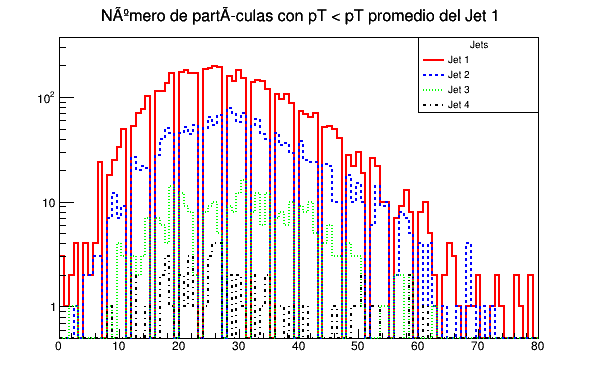
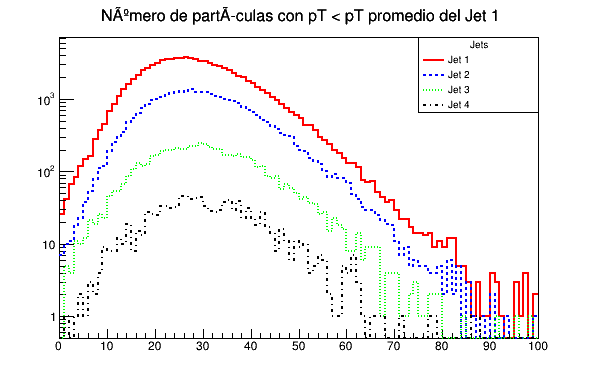
Cambios esteticos.2 y 200_000 eventos

Changed region(s): [[0.0602, 0.1463, 0.9331, 0.9362], [0.0602, 0.234, 0.1204, 0.3218], [0.1806, 0.234, 0.2107, 0.2926]]

diff --git a/Tomas_code/graphsTree.cpp b/Tomas_code/graphsTree.cpp
@@ -14,22 +14,22 @@ void graphsTree()
     // Creamos un objeto TChain para leer los rootfiles
     TChain *ch = new TChain("Delphes", "");
     ch->Add("../rootfiles/run_01.root");
-    // ch->Add("../rootfiles/run_02.root");
-    // ch->Add("../rootfiles/run_03.root");
-    // ch->Add("../rootfiles/run_04.root");
+    ch->Add("../rootfiles/run_02.root");
+    ch->Add("../rootfiles/run_03.root");
+    ch->Add("../rootfiles/run_04.root");
 
     TTree *Delphes = (TTree*)ch;
     Delphes->MakeClass("MyClass"); // Crea la clase de lectura de la TTree
     MyClass t(Delphes); // Evalúa la clase de lectura de la TTree
-    Long64_t nentries = 10000;//t.fChain->GetEntries(); // Obtiene el número de entradas en la TTree 
+    Long64_t nentries = t.fChain->GetEntries(); // Obtiene el número de entradas en la TTree 
 
     // Jets por evento
-    TH1F *hJetsPerEvent = new TH1F("hJetsPerEvent", "Numero de Jets por Evento", 100, 0, 6);
+    TH1F *hJetsPerEvent = new TH1F("hJetsPerEvent", "Numero de Jets por Evento", 8, 0, 8);
     
     // pT de los jets
     TH1F *hJetPT[4];
     for (int i = 0; i < 4; i++) {
-    hJetPT[i] = new TH1F(Form("hJetPT%d", i), Form("pT del Jet %d", i+1), 100, 0, 150); // Ajusta los límites según sea necesario
+    hJetPT[i] = new TH1F(Form("hJetPT%d", i), Form("pT del Jet %d", i+1), 150, 20, 180); // Ajusta los límites según sea necesario
     
     // Asigna un color único a cada histograma
     if(i == 0) hJetPT[i]->SetLineColor(kRed);
@@ -82,7 +82,7 @@ void graphsTree()
     TH1F *hDeltaRPar[6];
     for (int i = 0; i < 6; i++)
     {
-        hDeltaRPar[i] = new TH1F(Form("hDeltaRPar%d", i), Form("Delta R entre los primeros 4 jets, por parejas %d", i + 1), 16, 0, 8);
+        hDeltaRPar[i] = new TH1F(Form("hDeltaRPar%d", i), Form("Delta R entre los primeros 4 jets, por parejas %d", i + 1), 36, 0, 9);
         // Asigna un color único a cada histograma
         if (i == 0)
             hDeltaRPar[i]->SetLineColor(kRed);
@@ -106,7 +106,7 @@ void graphsTree()
     // Número de partículas cargadas por jet
     TH1F *hChargedParticles[4];
     for (int i = 0; i < 4; i++) {
-        hChargedParticles[i] = new TH1F(Form("hChargedParticles%d", i), Form("Numero de Partículas Cargadas del Jet %d", i+1), 20, 0, 20);
+        hChargedParticles[i] = new TH1F(Form("hChargedParticles%d", i), Form("Numero de Partículas Cargadas del Jet %d", i+1), 25, 0, 25);
     // Asigna un color único a cada histograma
     if(i == 0) hChargedParticles[i]->SetLineColor(kRed);
     else if(i == 1) hChargedParticles[i]->SetLineColor(kBlue);
@@ -120,7 +120,7 @@ void graphsTree()
     // Número de neutras cargadas por jet
     TH1F *hNeutralsParticles[4];
     for (int i = 0; i < 4; i++) {
-        hNeutralsParticles[i] = new TH1F(Form("hNeutralsParticles%d", i), Form("Numero de Partículas Cargadas del Jet %d", i+1), 20, 0, 20);
+        hNeutralsParticles[i] = new TH1F(Form("hNeutralsParticles%d", i), Form("Numero de Partículas neutras del Jet %d", i+1), 25, 0, 25);
     // Asigna un color único a cada histograma
     if(i == 0) hNeutralsParticles[i]->SetLineColor(kRed);
     else if(i == 1) hNeutralsParticles[i]->SetLineColor(kBlue);
@@ -134,7 +134,7 @@ void graphsTree()
     // Histograma de fracción de pT cargado del jet
     TH1F *hChargedPTFraction[4];
     for (int i = 0; i < 4; i++) {
-    hChargedPTFraction[i] = new TH1F(Form("hChargedPTFraction%d", i), Form("Fracción de pT cargado del Jet %d", i+1), 100, 0, 2); // cambie el limite superior de 1 a 2
+    hChargedPTFraction[i] = new TH1F(Form("hChargedPTFraction%d", i), Form("Fracción de pT cargado del Jet %d", i+1), 100, 0, 10); // cambie el limite superior de 1 a 2
     
     // Asigna un color único a cada histograma
     if(i == 0) hChargedPTFraction[i]->SetLineColor(kRed);
@@ -164,7 +164,7 @@ void graphsTree()
     // Histograma del pT promedio de las partículas de cada jet
     TH1F *hAveragePT[4];
     for (int i = 0; i < 4; i++) {
-    hAveragePT[i] = new TH1F(Form("hAveragePT%d", i), Form("pT promedio de las partículas del Jet %d", i+1), 100, 0, 150);
+    hAveragePT[i] = new TH1F(Form("hAveragePT%d", i), Form("pT promedio de las partículas del Jet %d", i+1), 120, 0, 60);
     
     // Asigna un color único a cada histograma
     if(i == 0) hAveragePT[i]->SetLineColor(kRed);
@@ -179,7 +179,7 @@ void graphsTree()
     // Histograma del número de partículas pertenecientes a un jet con pT por debajo del pT promedio por cada jet
     TH1F *hParticlesBelowAvgPT[4];
     for (int i = 0; i < 4; i++) {
-    hParticlesBelowAvgPT[i] = new TH1F(Form("hParticlesBelowAvgPT%d", i), Form("Número de partículas con pT < pT promedio del Jet %d", i+1), 100, 0, 80);//Cambie el limite superior de 50 a 80
+    hParticlesBelowAvgPT[i] = new TH1F(Form("hParticlesBelowAvgPT%d", i), Form("Número de partículas con pT < pT promedio del Jet %d", i+1), 100, 0, 100);//Cambie el limite superior de 50 a 80
     
     // Asigna un color único a cada histograma
     if(i == 0) hParticlesBelowAvgPT[i]->SetLineColor(kRed);
@@ -194,7 +194,7 @@ void graphsTree()
     // Histograma del número de partículas pertenecientes a un jet con pT por encima del pT promedio por cada jet
     TH1F *hParticlesAboveAvgPT[4];
     for (int i = 0; i < 4; i++) {
-    hParticlesAboveAvgPT[i] = new TH1F(Form("hParticlesAboveAvgPT%d", i), Form("Número de partículas con pT > pT promedio del Jet %d", i+1), 100, 0, 50);
+    hParticlesAboveAvgPT[i] = new TH1F(Form("hParticlesAboveAvgPT%d", i), Form("Número de partículas con pT > pT promedio del Jet %d", i+1), 45, 0, 45);
         
     // Asigna un color único a cada histograma
     if(i == 0) hParticlesAboveAvgPT[i]->SetLineColor(kRed);
@@ -209,7 +209,7 @@ void graphsTree()
     // Histograma de pT(par_max_pT) / pT(j_r).
     TH1F *hMaxPTRatio[4];
     for (int i = 0; i < 4; i++) {
-    hMaxPTRatio[i] = new TH1F(Form("hMaxPTRatio%d", i), Form("pT(par_max_pT) / pT(j_r) del Jet %d", i+1), 100, 0, 2);// cambie el limite superior de 1.5 a 2
+    hMaxPTRatio[i] = new TH1F(Form("hMaxPTRatio%d", i), Form("pT(par_max_pT) / pT(j_r) del Jet %d", i+1), 100, 0, 3.5);// cambie el limite superior de 1.5 a 2
     
     // Asigna un color único a cada histograma
     if(i == 0) hMaxPTRatio[i]->SetLineColor(kRed);
@@ -224,7 +224,7 @@ void graphsTree()
     // Histograma de pT(par_min_pT) / pT(j_r).
     TH1F *hMinPTRatio[4];
     for (int i = 0; i < 4; i++) {
-    hMinPTRatio[i] = new TH1F(Form("hMinPTRatio%d", i), Form("pT(par_min_pT) / pT(j_r) del Jet %d", i+1), 100, 0, 0.2);
+    hMinPTRatio[i] = new TH1F(Form("hMinPTRatio%d", i), Form("pT(par_min_pT) / pT(j_r) del Jet %d", i+1), 100, 0, 0.15);
     
     // Asigna un color único a cada histograma
     if(i == 0) hMinPTRatio[i]->SetLineColor(kRed);
@@ -239,7 +239,7 @@ void graphsTree()
     // Histograma de pT(par_max_DR) / pT(j_r)
     TH1F *hMaxDRRatio[4];
     for (int i = 0; i < 4; i++) {
-    hMaxDRRatio[i] = new TH1F(Form("hMaxDRRatio%d", i), Form("pT(par_max_DR) / pT(j_r) del Jet %d", i+1), 100, 0, 1.5);
+    hMaxDRRatio[i] = new TH1F(Form("hMaxDRRatio%d", i), Form("pT(par_max_DR) / pT(j_r) del Jet %d", i+1), 100, 0, 2);
     
     // Asigna un color único a cada histograma
     if(i == 0) hMaxDRRatio[i]->SetLineColor(kRed);
@@ -254,7 +254,7 @@ void graphsTree()
     // Histogram de pT(par_min_DR) / pT(j_r)
     TH1F *hMinDRRatio[4];
     for (int i = 0; i < 4; i++) {
-    hMinDRRatio[i] = new TH1F(Form("hMinDRRatio%d", i), Form("pT(par_min_DR) / pT(j_r) del Jet %d", i+1), 100, 0, 1.5);
+    hMinDRRatio[i] = new TH1F(Form("hMinDRRatio%d", i), Form("pT(par_min_DR) / pT(j_r) del Jet %d", i+1), 100, 0, 3);
     
     // Asigna un color único a cada histograma
     if(i == 0) hMinDRRatio[i]->SetLineColor(kRed);
@@ -269,7 +269,7 @@ void graphsTree()
     // Histograma de DeltaR(par_max_pT, j_r)
     TH1F *hDeltaRMaxPT[4];
     for (int i = 0; i < 4; i++) {
-    hDeltaRMaxPT[i] = new TH1F(Form("hDeltaRMaxPT%d", i), Form("DeltaR(par_max_pT, j_r) del Jet %d", i+1), 100, 0, 0.5);
+    hDeltaRMaxPT[i] = new TH1F(Form("hDeltaRMaxPT%d", i), Form("DeltaR(par_max_pT, j_r) del Jet %d", i+1), 100, 0, 0.45);
     
     // Asigna un color único a cada histograma
     if(i == 0) hDeltaRMaxPT[i]->SetLineColor(kRed);
@@ -284,7 +284,7 @@ void graphsTree()
     // Histograma de DeltaR(par_min_pT, j_r)
     TH1F *hDeltaRMinPT[4];
     for (int i = 0; i < 4; i++) {
-    hDeltaRMinPT[i] = new TH1F(Form("hDeltaRMinPT%d", i), Form("DeltaR(par_min_pT, j_r) del Jet %d", i+1), 100, 0, 0.5);
+    hDeltaRMinPT[i] = new TH1F(Form("hDeltaRMinPT%d", i), Form("DeltaR(par_min_pT, j_r) del Jet %d", i+1), 100, 0, 0.45);
     
     // Asigna un color único a cada histograma
     if(i == 0) hDeltaRMinPT[i]->SetLineColor(kRed);
@@ -299,7 +299,7 @@ void graphsTree()
     // Histograma de DeltaR(par_max_DR, j_r)
     TH1F *hDeltaRMaxDR[4];
     for (int i = 0; i < 4; i++) {
-    hDeltaRMaxDR[i] = new TH1F(Form("hDeltaRMaxDR%d", i), Form("DeltaR(par_max_DR, j_r) del Jet %d", i+1), 100, 0, 0.5);
+    hDeltaRMaxDR[i] = new TH1F(Form("hDeltaRMaxDR%d", i), Form("DeltaR(par_max_DR, j_r) del Jet %d", i+1), 100, 0, 0.45);
     
     // Asigna un color único a cada histograma
     if(i == 0) hDeltaRMaxDR[i]->SetLineColor(kRed);
@@ -314,7 +314,7 @@ void graphsTree()
     // Histograma de DeltaR(par_min_DR, j_r)
     TH1F *hDeltaRMinDR[4];
     for (int i = 0; i < 4; i++) {
-    hDeltaRMinDR[i] = new TH1F(Form("hDeltaRMinDR%d", i), Form("DeltaR(par_min_DR, j_r) del Jet %d", i+1), 100, 0, 0.5);
+    hDeltaRMinDR[i] = new TH1F(Form("hDeltaRMinDR%d", i), Form("DeltaR(par_min_DR, j_r) del Jet %d", i+1), 100, 0, 0.4);
     
     // Asigna un color único a cada histograma
     if(i == 0) hDeltaRMinDR[i]->SetLineColor(kRed);
@@ -329,7 +329,7 @@ void graphsTree()
     // Histogram de pT(par_max_pT) - pT(par_min_pT)
     TH1F *hPTDifference[4];
     for (int i = 0; i < 4; i++) {
-    hPTDifference[i] = new TH1F(Form("hPTDifference%d", i), Form("pT(par_max_pT) - pT(par_min_pT) del Jet %d", i+1), 100, 0, 150);
+    hPTDifference[i] = new TH1F(Form("hPTDifference%d", i), Form("pT(par_max_pT) - pT(par_min_pT) del Jet %d", i+1), 80, 0, 170);
     
     // Assign a unique color to each histogram
     if(i == 0) hPTDifference[i]->SetLineColor(kRed);
@@ -344,7 +344,7 @@ void graphsTree()
     // Histogram for R containing 50% of the total pT from the jet center for each jet
     TH1F *hR50PercentPT[4];
     for (int i = 0; i < 4; i++) {
-    hR50PercentPT[i] = new TH1F(Form("hR50PercentPT%d", i), Form("R para 50%% pT total del Jet %d", i+1), 100, 0, 0.5);
+    hR50PercentPT[i] = new TH1F(Form("hR50PercentPT%d", i), Form("R para 50%% pT total del Jet %d", i+1), 100, 0, 0.45);
     
     // Assign a unique color to each histogram
     if(i == 0) hR50PercentPT[i]->SetLineColor(kRed);
@@ -360,7 +360,7 @@ void graphsTree()
     TH1F *hR95PercentPT[4];
     for (int i = 0; i < 4; i++) 
     {
-        hR95PercentPT[i] = new TH1F(Form("hR95PercentPT%d", i), Form("R para 95%% pT total del Jet %d", i+1), 100, 0, 0.5);
+        hR95PercentPT[i] = new TH1F(Form("hR95PercentPT%d", i), Form("R para 95%% pT total del Jet %d", i+1), 100, 0, 0.45);
         // Assign a unique color to each histogram
         if(i == 0) hR95PercentPT[i]->SetLineColor(kRed);
         else if(i == 1) hR95PercentPT[i]->SetLineColor(kBlue);
@@ -663,6 +663,7 @@ void graphsTree()
     // Dibuja el histograma
     // Dibujar histograma de jets por evento
     TCanvas *cJets = new TCanvas("cJets", "Jets por evento", 600, 400);
+    gPad->SetLogy(); // Escala logarítmica en el eje y
     hJetsPerEvent->Draw();
 
     // Dibujar histograma de pT de los jets
@@ -687,7 +688,7 @@ void graphsTree()
     for (int i = 1; i < 4; i++) {
         hJetEta[i]->Draw("SAME"); // Superpone los siguientes histogramas
     }
-    TLegend *legendEta = new TLegend(0.7, 0.7, 0.9, 0.9); // Ajusta la posición según sea necesario
+    TLegend *legendEta = new TLegend(0.8, 0.7, 0.9, 0.9); // Ajusta la posición según sea necesario
     legendEta->SetHeader("Jets", "C"); // Opcional: título de la leyenda
     for (int i = 0; i < 4; i++) {
         legendEta->AddEntry(hJetEta[i], Form("Jet %d", i+1), "l");
@@ -710,7 +711,7 @@ void graphsTree()
 
     TCanvas *cRPar = new TCanvas("cRPar", "R entre la primeras 4 parejas de jets", 600, 400);
     gStyle->SetOptStat(0); // Desactiva la caja de estadísticas para todos los histogramas
-    hDeltaRPar[0 + 1]->Draw(); // Dibuja el primer histograma
+    hDeltaRPar[0]->Draw(); // Dibuja el primer histograma
     for (int i = 1; i < 6; i++) {
         hDeltaRPar[i]->Draw("SAME"); // Superpone los siguientes histogramas
     }
@@ -774,7 +775,7 @@ void graphsTree()
     for (int i = 1; i < 4; i++) {
         hNeutralPTFraction[i]->Draw("SAME"); // Overlay the other histograms
     }
-    TLegend *legendNeutralPTFraction = new TLegend(0.7, 0.7, 0.9, 0.9); // Adjust the position as necessary
+    TLegend *legendNeutralPTFraction = new TLegend(0.1, 0.7, 0.2, 0.9); // Adjust the position as necessary
     legendNeutralPTFraction->SetHeader("Jets", "C"); // Optional: legend title
     for (int i = 0; i < 4; i++) {
         legendNeutralPTFraction->AddEntry(hNeutralPTFraction[i], Form("Jet %d", i+1), "l");
@@ -839,6 +840,7 @@ void graphsTree()
 
     TCanvas *cMinPTRatio = new TCanvas("cMinPTRatio", "pT(par_min_pT) / pT(j_r) del Jet", 600, 400);
     gStyle->SetOptStat(0); // Disable the statistics box for all histograms
+    gPad->SetLogy(); // Escala logarítmica en el eje y
     hMinPTRatio[0]->Draw(); // Draw the first histogram
     for (int i = 1; i < 4; i++) {
         hMinPTRatio[i]->Draw("SAME"); // Overlay the other histograms
@@ -899,7 +901,7 @@ void graphsTree()
     for (int i = 1; i < 4; i++) {
         hDeltaRMinPT[i]->Draw("SAME"); // Overlay the other histograms
     }
-    TLegend *legendDeltaRMinPT = new TLegend(0.7, 0.7, 0.9, 0.9); // Adjust the position as necessary
+    TLegend *legendDeltaRMinPT = new TLegend(0.1, 0.7, 0.3, 0.9); // Adjust the position as necessary
     legendDeltaRMinPT->SetHeader("Jets", "C"); // Optional: legend title
     for (int i = 0; i < 4; i++) {
         legendDeltaRMinPT->AddEntry(hDeltaRMinPT[i], Form("Jet %d", i+1), "l");
@@ -913,7 +915,7 @@ void graphsTree()
     for (int i = 1; i < 4; i++) {
         hDeltaRMaxDR[i]->Draw("SAME"); // Overlay the other histograms
     }
-    TLegend *legendDeltaRMaxDR = new TLegend(0.7, 0.7, 0.9, 0.9); // Adjust the position as necessary
+    TLegend *legendDeltaRMaxDR = new TLegend(0.1, 0.7, 0.25, 0.9); // Adjust the position as necessary
     legendDeltaRMaxDR->SetHeader("Jets", "C"); // Optional: legend title
     for (int i = 0; i < 4; i++) {
         legendDeltaRMaxDR->AddEntry(hDeltaRMaxDR[i], Form("Jet %d", i+1), "l");
@@ -969,7 +971,7 @@ void graphsTree()
     for (int i = 1; i < 4; i++) {
         hR95PercentPT[i]->Draw("SAME");
     }
-    TLegend * legendR95 = new TLegend(0.7, 0.7, 0.9, 0.9);
+    TLegend * legendR95 = new TLegend(0.1, 0.7, 0.2, 0.9);
     legendR95->SetHeader("Jets", "C");
     for (int i = 0; i < 4; i++) {
         legendR95->AddEntry(hR95PercentPT[i], Form("Jet %d", i+1), "l");

diff --git a/Tomas_code/MyClass.h b/Tomas_code/MyClass.h
@@ -1,6 +1,6 @@
 //////////////////////////////////////////////////////////
 // This class has been automatically generated on
-// Thu Sep  5 14:04:07 2024 by ROOT version 6.30/06
+// Fri Sep  6 08:00:01 2024 by ROOT version 6.30/06
 // from TChain Delphes/
 //////////////////////////////////////////////////////////
 
@@ -23,19 +23,19 @@ public :
 // Fixed size dimensions of array or collections stored in the TTree if any.
    static constexpr Int_t kMaxEvent = 1;
    static constexpr Int_t kMaxWeight = 2;
-   static constexpr Int_t kMaxParticle = 3926;
-   static constexpr Int_t kMaxTrack = 142;
-   static constexpr Int_t kMaxTower = 280;
-   static constexpr Int_t kMaxEFlowTrack = 142;
+   static constexpr Int_t kMaxParticle = 4164;
+   static constexpr Int_t kMaxTrack = 163;
+   static constexpr Int_t kMaxTower = 291;
+   static constexpr Int_t kMaxEFlowTrack = 163;
    static constexpr Int_t kMaxEFlowPhoton = 82;
-   static constexpr Int_t kMaxEFlowNeutralHadron = 162;
-   static constexpr Int_t kMaxGenJet = 7;
+   static constexpr Int_t kMaxEFlowNeutralHadron = 177;
+   static constexpr Int_t kMaxGenJet = 9;
    static constexpr Int_t kMaxGenMissingET = 1;
-   static constexpr Int_t kMaxJet = 6;
+   static constexpr Int_t kMaxJet = 8;
    static constexpr Int_t kMaxElectron = 1;
    static constexpr Int_t kMaxPhoton = 2;
    static constexpr Int_t kMaxMuon = 1;
-   static constexpr Int_t kMaxFatJet = 1;
+   static constexpr Int_t kMaxFatJet = 2;
    static constexpr Int_t kMaxMissingET = 1;
    static constexpr Int_t kMaxScalarHT = 1;
 
@@ -910,6 +910,9 @@ MyClass::MyClass(TTree *tree) : fChain(0)
       // of trees.
       TChain * chain = new TChain("Delphes","");
       chain->Add("../rootfiles/run_01.root/Delphes");
+      chain->Add("../rootfiles/run_02.root/Delphes");
+      chain->Add("../rootfiles/run_03.root/Delphes");
+      chain->Add("../rootfiles/run_04.root/Delphes");
       tree = chain;
 #endif // SINGLE_TREE
 
